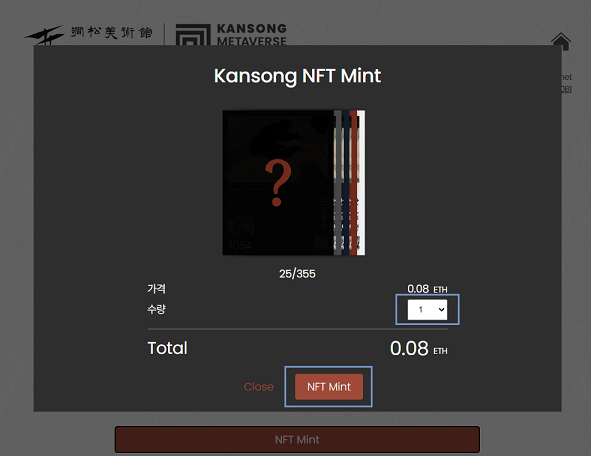
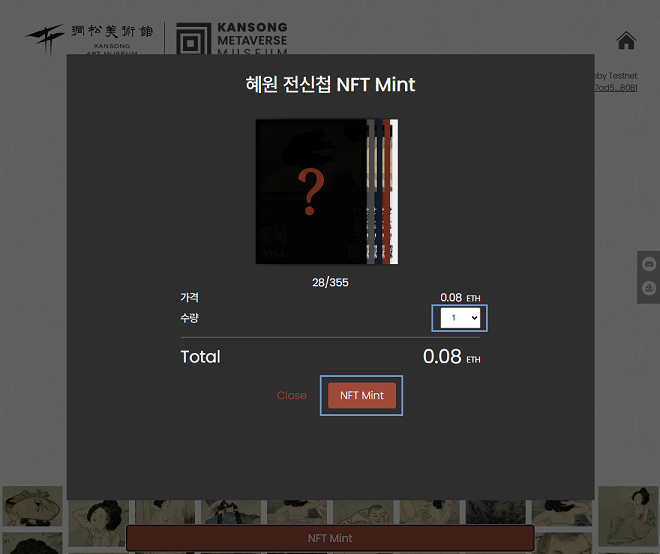
-. update : popup , minting title, minting guide

Changed region(s): [[0.0, 0.0307, 1.0, 1.0], [0.2741, 0.5219, 0.3046, 0.5833]]

diff --git a/guide/mintingguide.html b/guide/mintingguide.html
@@ -78,7 +78,7 @@
     <div class="main-div">
       <div class="content-div">
         <div style="text-align: center;">
-          <h1>Kansong NFT Mint Guide</h1>
+          <h1>혜원 전신첩 NFT 프리세일 민팅 가이드</h1>
         </div>
         <div id="div-countdown" style="text-align: center;  padding: 30px;
         border-radius: 20px;
@@ -88,7 +88,7 @@
             target="_blank"
             style="text-decoration: underline; color: white; font-size: 25px"
             href="../mintingInfo.html"
-            >Go to Minting page</a
+            >민팅 페이지로 가기</a
           >
           <br>
           <br>
@@ -102,7 +102,7 @@
         <div>
           <br>
           <h3>권장 브라우저: Chrome / Brave / Microsoft Edge</h3>
-          <p>Kansong NFT 민팅 화면은 권장 브라우저에 최적화 되어있습니다.</p>
+          <p>혜원 전신첩 NFT 민팅 화면은 권장 브라우저에 최적화 되어있습니다.</p>
           <br>
         </div>
         <div>

diff --git a/page/popup-minting.html b/page/popup-minting.html
@@ -1,14 +1,14 @@
 <!-- 민팅 전 -->
  <div id="before_minting" style="display: block">
   <div id="minting-loading"><div class="spinner"></div></div>
-  <h4 class="subtitle">Kansong NFT Mint</h4>
+  <h4 class="subtitle">혜원 전신첩 NFT Mint</h4>
 
   <div class="mint_contents">
     <div class="mint_imgArea">
       <img src="img/random_nft.png" alt="" class="random_nft">
       
     </div>
-    <div class="total_supply" >aaa/bbb</div>
+    <div class="total_supply" >0/0</div>
     <div>
       <p>가격</p>
       <span class="mint_price" id="mint_price">0.0</span>
@@ -36,7 +36,7 @@
 <!-- 민팅 후 -->
 
  <div id="after_minting" style="display:none">
-  <h4 class="subtitle">Kansong NFT 민팅 결과</h4>
+  <h4 class="subtitle">혜원 전신첩 NFT 민팅 결과</h4>
 
   <div class="mint_contents">
     <img src="./img/pre_img.png" alt="">

diff --git a/page/sidebar.html b/page/sidebar.html
@@ -12,26 +12,26 @@
 <ul>
   <!-- discord -->
   <li class="discord">
-    <a href="" target="_blank"> Discord </a>
+    <a href="https://discord.gg/ywtszw3r3S" target="_blank"> Discord </a>
   </li>
 
   <!-- telegram -->
-  <li class="telegram">
+  <li class="telegram" style="display: none">
     <a href="" target="_blank"> Telegram </a>
   </li>
 
   <!-- twitter -->
-  <li class="twitter">
+  <li class="twitter" style="display: none">
     <a href="" target="_blank"> Twitter </a>
   </li>
 
   <!-- opensea -->
   <li class="opensea">
-    <a href="" target="_blank"> Opensea </a>
+    <a href="https://opensea.io/collection/hyewons-album-of-genre-paintings" target="_blank"> Opensea </a>
   </li>
 
   <!-- medium -->
-  <li class="medium">
+  <li class="medium" style="display: none">
     <a href="" target="_blank"> Medium </a>
   </li>
 </ul>

diff --git a/mintingInfo.html b/mintingInfo.html
@@ -78,7 +78,7 @@
     $(document).ready(function () {
       $("#header-inner").load("./page/header.html");
       $("#popup-minting").load("./page/popup-minting.html");
-      // $("#sidebar").load("./page/sidebar.html");
+      $("#sidebar").load("./page/sidebar.html");
     });
   </script>
   <script>
@@ -133,7 +133,7 @@
     <div class="Container">
       <div class="textarea grid">
         <h2 data-scroll="toggle(.fromTopIn, .fromTopOut)">
-          Kansong NFT Pre-Sales
+          혜원 전신첩 NFT 프리세일
         </h2>
         <div id="div-countdown" class="div-countdown" style="display: none">
           <h3

diff --git a/js/mintinginfo.js b/js/mintinginfo.js
@@ -406,11 +406,13 @@ function modal(id){
   // 닫기 버튼 처리, 시꺼먼 레이어와 모달 div 지우기
   modal.querySelector('.modal_close_btn').addEventListener('click', function() {
     valueReset();
+    $("#minting-loading").hide();
     bg.remove();
     modal.style.display = 'none';
   });
   modal.querySelector('.modal_close_btn_after').addEventListener('click', function() {
     valueReset();
+    $("#minting-loading").hide();
     bg.remove();
     modal.style.display = 'none';
   });

diff --git a/index.html b/index.html
@@ -76,7 +76,7 @@
     <script type="text/javascript">
       $(document).ready(function () {
         $("#header-inner").load("./page/header.html");
-        // $("#sidebar").load("./page/sidebar.html");
+        $("#sidebar").load("./page/sidebar.html");
       });
     </script>
   </head>
